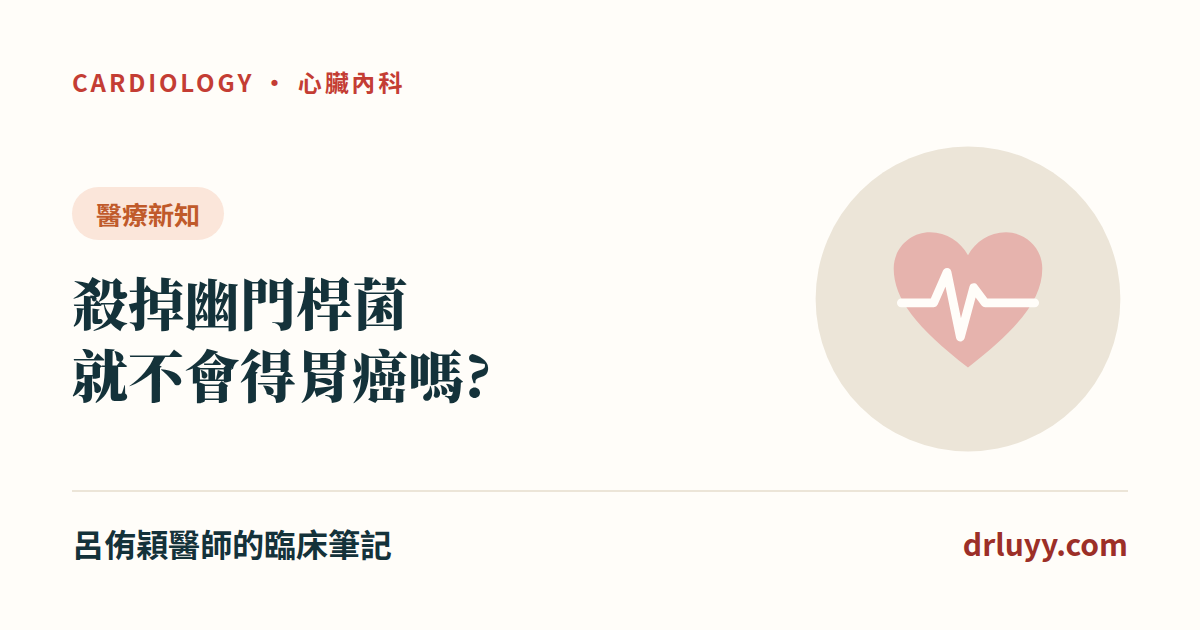
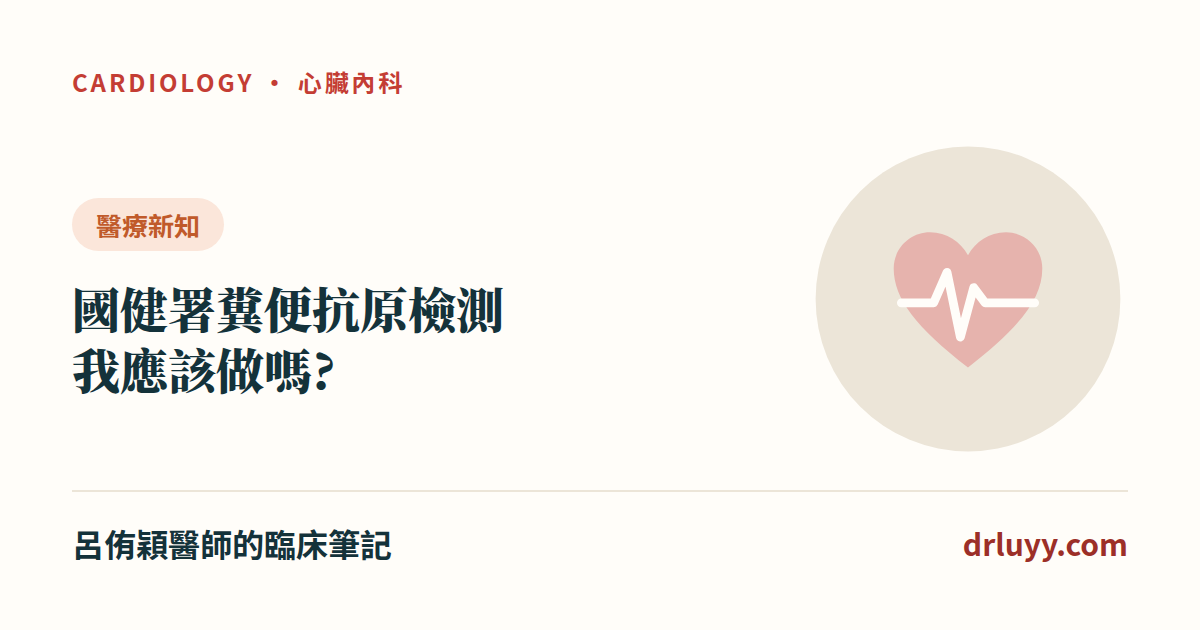
幽門桿菌文章:改標題為呂哥版本;build 全站同步

Changed region(s): [[0.0617, 0.2714, 0.4317, 0.6635]]

diff --git a/posts/hpylori-gastric-cancer.html b/posts/hpylori-gastric-cancer.html
@@ -3,13 +3,13 @@
 <head>
 <meta charset="UTF-8">
 <meta name="viewport" content="width=device-width, initial-scale=1.0">
-<title>殺掉幽門桿菌,就不會得胃癌嗎?證據、誰該驗、殺完還要照胃鏡嗎 — 呂侑穎醫師</title>
-<meta name="description" content="2026 年起 45 到 74 歲有公費幽門桿菌糞便檢測。隨機試驗顯示殺菌能讓胃癌的相對風險約少一半,但不是歸零:越早越好,已有萎縮、腸化生或切除過早期胃癌的人仍要追蹤胃鏡。這篇整理證據、誰該驗、陽性怎麼除菌與複驗。">
+<title>國健署糞便抗原檢測胃幽門螺旋桿菌,我應該做嗎? — 呂侑穎醫師</title>
+<meta name="description" content="幽門螺旋桿菌與胃癌的關係。2026 年起 45 到 74 歲有終身一次公費糞便檢測;隨機試驗顯示殺菌能讓胃癌的相對風險約少一半,但不是歸零。這篇整理證據、誰該驗、陽性怎麼除菌與複驗,以及殺完還要不要照胃鏡。">
 <meta name="author" content="呂侑穎醫師">
 <meta name="robots" content="index, follow">
 <link rel="canonical" href="https://drluyy.com/posts/hpylori-gastric-cancer.html">
-<meta property="og:title" content="殺掉幽門桿菌,就不會得胃癌嗎?證據、誰該驗、殺完還要照胃鏡嗎">
-<meta property="og:description" content="2026 年起 45 到 74 歲有公費幽門桿菌糞便檢測。隨機試驗顯示殺菌能讓胃癌的相對風險約少一半,但不是歸零:越早越好,已有萎縮、腸化生或切除過早期胃癌的人仍要追蹤胃鏡。這篇整理證據、誰該驗、陽性怎麼除菌與複驗。">
+<meta property="og:title" content="國健署糞便抗原檢測胃幽門螺旋桿菌,我應該做嗎?">
+<meta property="og:description" content="幽門螺旋桿菌與胃癌的關係。2026 年起 45 到 74 歲有終身一次公費糞便檢測;隨機試驗顯示殺菌能讓胃癌的相對風險約少一半,但不是歸零。這篇整理證據、誰該驗、陽性怎麼除菌與複驗,以及殺完還要不要照胃鏡。">
 <meta property="og:type" content="article">
 <meta property="og:url" content="https://drluyy.com/posts/hpylori-gastric-cancer.html">
 <meta property="og:locale" content="zh_TW">
@@ -21,7 +21,7 @@
 <meta name="twitter:image" content="https://drluyy.com/img/og/hpylori-gastric-cancer.png">
 <link rel="icon" href="../favicon.svg" type="image/svg+xml">
 <script type="application/ld+json">
-{"@context":"https://schema.org","@type":"MedicalWebPage","headline":"殺掉幽門桿菌,就不會得胃癌嗎?證據、誰該驗、殺完還要照胃鏡嗎","name":"殺掉幽門桿菌,就不會得胃癌嗎?證據、誰該驗、殺完還要照胃鏡嗎","description":"2026 年起 45 到 74 歲有公費幽門桿菌糞便檢測。隨機試驗顯示殺菌能讓胃癌的相對風險約少一半,但不是歸零:越早越好,已有萎縮、腸化生或切除過早期胃癌的人仍要追蹤胃鏡。這篇整理證據、誰該驗、陽性怎麼除菌與複驗。","url":"https://drluyy.com/posts/hpylori-gastric-cancer.html","inLanguage":"zh-TW","image":"https://drluyy.com/img/og/hpylori-gastric-cancer.png","author":{"@type":"Person","name":"呂侑穎","jobTitle":"心臟內科醫師","url":"https://drluyy.com/about.html","sameAs":["https://www.tahsda.org.tw/doctors/doctorcard.php?doctorid=058","https://www.threads.com/@aluminum001"]},"publisher":{"@type":"Organization","name":"台安醫院心臟內科。呂侑穎醫師。臨床筆記"},"dateModified":"2026-11-14","mainEntityOfPage":"https://drluyy.com/posts/hpylori-gastric-cancer.html","datePublished":"2026-11-14"}
+{"@context":"https://schema.org","@type":"MedicalWebPage","headline":"國健署糞便抗原檢測胃幽門螺旋桿菌,我應該做嗎?","name":"國健署糞便抗原檢測胃幽門螺旋桿菌,我應該做嗎?","description":"幽門螺旋桿菌與胃癌的關係。2026 年起 45 到 74 歲有終身一次公費糞便檢測;隨機試驗顯示殺菌能讓胃癌的相對風險約少一半,但不是歸零。這篇整理證據、誰該驗、陽性怎麼除菌與複驗,以及殺完還要不要照胃鏡。","url":"https://drluyy.com/posts/hpylori-gastric-cancer.html","inLanguage":"zh-TW","image":"https://drluyy.com/img/og/hpylori-gastric-cancer.png","author":{"@type":"Person","name":"呂侑穎","jobTitle":"心臟內科醫師","url":"https://drluyy.com/about.html","sameAs":["https://www.tahsda.org.tw/doctors/doctorcard.php?doctorid=058","https://www.threads.com/@aluminum001"]},"publisher":{"@type":"Organization","name":"台安醫院心臟內科。呂侑穎醫師。臨床筆記"},"dateModified":"2026-11-14","mainEntityOfPage":"https://drluyy.com/posts/hpylori-gastric-cancer.html","datePublished":"2026-11-14"}
 </script>
 <link rel="preconnect" href="https://fonts.googleapis.com">
 <link rel="preconnect" href="https://fonts.gstatic.com" crossorigin>
@@ -65,7 +65,7 @@ gtag('config', 'G-BC1Z8X6BQT');
 <a class="back-link" href="../index.html">&larr; 回到全部文章</a>
 <div class="article-head">
 <span class="card-tag news">醫療新知</span>
-<h1>殺掉幽門桿菌,就不會得胃癌嗎?證據、誰該驗、殺完還要照胃鏡嗎</h1>
+<h1>國健署糞便抗原檢測胃幽門螺旋桿菌,我應該做嗎?</h1>
 <div class="article-meta">
 <span>衛教整理</span>
 <span>Cochrane 2020・NEJM・Gut・JAMA 2024</span>
@@ -222,7 +222,7 @@ Taufiqqurrachman 等,幽門桿菌除菌與胃癌預防:現有證據與展望(Exp
 </div>
 
 <nav class="related-posts" aria-label="相關文章"><h2>相關文章</h2><ul>
-<li><a href="coffee-liver.html">喝咖啡護肝是真的嗎?35 萬人研究:常喝咖啡的人,肝硬化、肝癌風險較低</a></li>
+<li><a href="glp1-sleep-apnea.html">瘦瘦針能改善睡眠呼吸中止嗎?打呼、心臟與最新研究一次看懂</a></li>
 <li><a href="dementia-prevention.html">預防失智怎麼做?14 個能改的風險因子,一半也傷心臟</a></li>
 <li><a href="cgm-type2-no-insulin.html">沒打胰島素,也需要戴連續血糖監測嗎?NEJM 試驗:半年糖化血色素多降 0.9</a></li>
 <li><a href="dha-brain-dementia-trial.html">每天吃高劑量魚油 DHA 能顧大腦嗎?</a></li>
@@ -239,7 +239,7 @@ Taufiqqurrachman 等,幽門桿菌除菌與胃癌預防:現有證據與展望(Exp
 <section class="comments-wrap">
 <h2 class="comments-title">留言與回饋</h2>
 <p class="comments-note">歡迎在下方留下你的想法或問題，留言經審核後才會公開顯示。<strong>提醒：本區不提供個別診療，個人病情請就醫或掛號諮詢。</strong></p>
-<div id="cusdis_thread" data-host="https://cusdis.com" data-app-id="0587d292-27ab-4082-bc76-15c0cd50293d" data-page-id="https://drluyy.com/posts/hpylori-gastric-cancer.html" data-page-url="https://drluyy.com/posts/hpylori-gastric-cancer.html" data-page-title="殺掉幽門桿菌,就不會得胃癌嗎?證據、誰該驗、殺完還要照胃鏡嗎"></div>
+<div id="cusdis_thread" data-host="https://cusdis.com" data-app-id="0587d292-27ab-4082-bc76-15c0cd50293d" data-page-id="https://drluyy.com/posts/hpylori-gastric-cancer.html" data-page-url="https://drluyy.com/posts/hpylori-gastric-cancer.html" data-page-title="國健署糞便抗原檢測胃幽門螺旋桿菌,我應該做嗎?"></div>
 <script async defer src="https://cusdis.com/js/cusdis.es.js"></script>
 </section>
 

diff --git a/index.html b/index.html
@@ -200,8 +200,8 @@ gtag('config', 'G-BC1Z8X6BQT');
 <a class="card" href="posts/hpylori-gastric-cancer.html">
 <div class="card-header">
 <span class="card-tag news">醫療新知</span>
-<div class="card-title">殺掉幽門桿菌,就不會得胃癌嗎?證據、誰該驗、殺完還要照胃鏡嗎</div>
-<div class="card-subtitle">2026 年起 45 到 74 歲有公費幽門桿菌糞便檢測。隨機試驗顯示殺菌能讓胃癌的相對風險約少一半,但不是歸零:越早越好,已有萎縮、腸化生或切除過早期胃癌的人仍要追蹤胃鏡。這篇整理證據、誰該驗、陽性怎麼除菌與複驗。</div>
+<div class="card-title">國健署糞便抗原檢測胃幽門螺旋桿菌,我應該做嗎?</div>
+<div class="card-subtitle">幽門螺旋桿菌與胃癌的關係。2026 年起 45 到 74 歲有終身一次公費糞便檢測;隨機試驗顯示殺菌能讓胃癌的相對風險約少一半,但不是歸零。這篇整理證據、誰該驗、陽性怎麼除菌與複驗,以及殺完還要不要照胃鏡。</div>
 <div class="card-meta"><span>衛教整理</span><span>Cochrane 2020・NEJM・Gut・JAMA 2024</span></div>
 </div>
 <div class="card-footer"><span class="read-btn">閱讀全文 →</span></div>

diff --git a/posts.html b/posts.html
@@ -72,8 +72,8 @@ gtag('config', 'G-BC1Z8X6BQT');
 <a class="card" href="posts/hpylori-gastric-cancer.html">
 <div class="card-header">
 <span class="card-tag news">醫療新知</span>
-<div class="card-title">殺掉幽門桿菌,就不會得胃癌嗎?證據、誰該驗、殺完還要照胃鏡嗎</div>
-<div class="card-subtitle">2026 年起 45 到 74 歲有公費幽門桿菌糞便檢測。隨機試驗顯示殺菌能讓胃癌的相對風險約少一半,但不是歸零:越早越好,已有萎縮、腸化生或切除過早期胃癌的人仍要追蹤胃鏡。這篇整理證據、誰該驗、陽性怎麼除菌與複驗。</div>
+<div class="card-title">國健署糞便抗原檢測胃幽門螺旋桿菌,我應該做嗎?</div>
+<div class="card-subtitle">幽門螺旋桿菌與胃癌的關係。2026 年起 45 到 74 歲有終身一次公費糞便檢測;隨機試驗顯示殺菌能讓胃癌的相對風險約少一半,但不是歸零。這篇整理證據、誰該驗、陽性怎麼除菌與複驗,以及殺完還要不要照胃鏡。</div>
 <div class="card-meta"><span>衛教整理</span><span>Cochrane 2020・NEJM・Gut・JAMA 2024</span></div>
 </div>
 <div class="card-footer"><span class="read-btn">閱讀全文 →</span></div>

diff --git a/news.html b/news.html
@@ -74,8 +74,8 @@ gtag('config', 'G-BC1Z8X6BQT');
 <a class="card" href="posts/hpylori-gastric-cancer.html">
 <div class="card-header">
 <span class="card-tag news">醫療新知</span>
-<div class="card-title">殺掉幽門桿菌,就不會得胃癌嗎?證據、誰該驗、殺完還要照胃鏡嗎</div>
-<div class="card-subtitle">2026 年起 45 到 74 歲有公費幽門桿菌糞便檢測。隨機試驗顯示殺菌能讓胃癌的相對風險約少一半,但不是歸零:越早越好,已有萎縮、腸化生或切除過早期胃癌的人仍要追蹤胃鏡。這篇整理證據、誰該驗、陽性怎麼除菌與複驗。</div>
+<div class="card-title">國健署糞便抗原檢測胃幽門螺旋桿菌,我應該做嗎?</div>
+<div class="card-subtitle">幽門螺旋桿菌與胃癌的關係。2026 年起 45 到 74 歲有終身一次公費糞便檢測;隨機試驗顯示殺菌能讓胃癌的相對風險約少一半,但不是歸零。這篇整理證據、誰該驗、陽性怎麼除菌與複驗,以及殺完還要不要照胃鏡。</div>
 <div class="card-meta">
 <span>衛教整理</span>
 <span>Cochrane 2020・NEJM・Gut・JAMA 2024</span>
